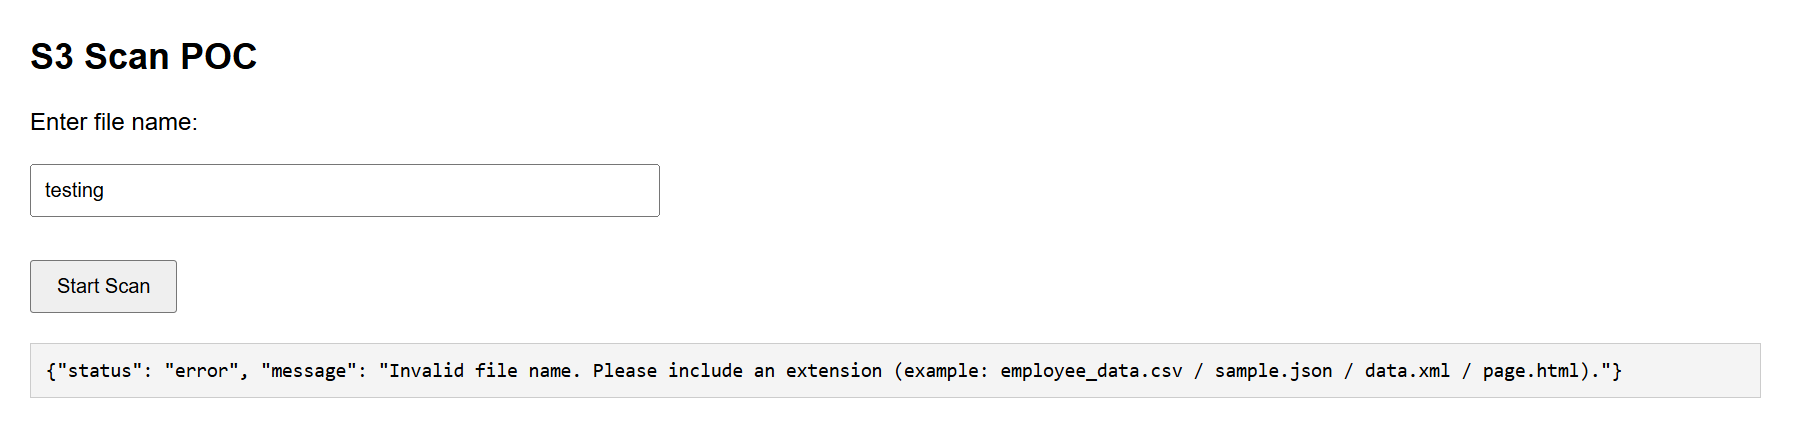
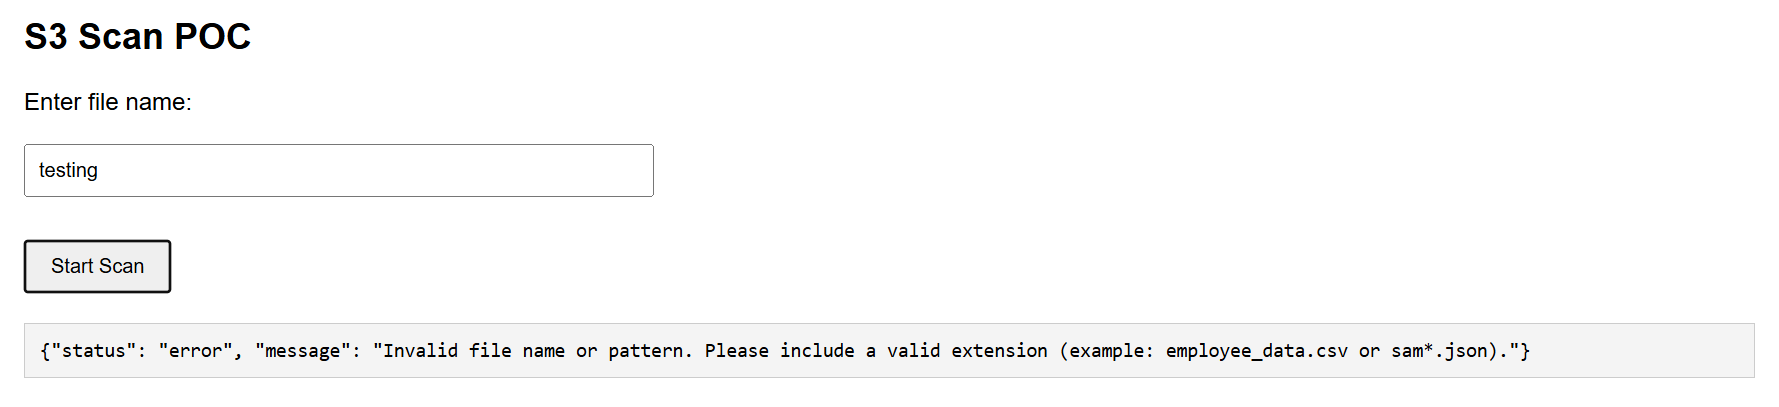
adding new scenarios and updating the future scope

diff --git a/docs/decisions-and-future.md b/docs/decisions-and-future.md
@@ -4,140 +4,9 @@ This document captures the key technical and architectural decisions made while 
 
 The intention is to explain **why specific choices were made** and how the solution can evolve into a production‑ready implementation.
 
----
 
-## Key Design Decisions
+### Authentication & Authorization
 
-### 1. Serverless Architecture
-**Decision:**  
-Use AWS managed serverless services (S3, API Gateway, Lambda).
-
-**Rationale:**
-- No infrastructure management or scaling concerns
-- Pay‑per‑use cost model
-- Fast iteration and deployment
-- Ideal for POCs and lightweight workloads
-
-This approach keeps operational overhead minimal and aligns with modern cloud-native patterns.
-
----
-
-### 2. Static Frontend Hosted on Amazon S3
-**Decision:**  
-Host the UI as a static website in Amazon S3.
-
-**Rationale:**
-- Simple and cost‑effective
-- No backend maintenance
-- Easy integration with API Gateway
-- Works well for lightweight interactive UIs
-
-The frontend is intentionally kept **dumb** — it performs no logic beyond sending user input to the backend.
-
----
-
-### 3. REST API Gateway (Not HTTP API)
-**Decision:**  
-Use **Amazon API Gateway REST API** instead of HTTP API.
-
-**Rationale:**
-- Explicit stage management (`/prod`)
-- Clear resource‑based routing (`/scan`)
-- Better visibility for learning and debugging
-- Familiar enterprise pattern
-
-Although HTTP APIs are cheaper and simpler, REST API was chosen to make routing, stages, and CORS behavior more explicit for demonstration and learning purposes.
-
----
-
-### 4. Backend‑Driven File Discovery
-**Decision:**  
-Accept **only file name input** from the UI and handle all discovery logic in Lambda.
-
-**Rationale:**
-- UI should not know storage layout
-- Prevents exposing internal bucket structure
-- Centralizes validation and search logic
-- Enables future backend enhancements without UI changes
-
-This improves security, maintainability, and extensibility.
-
----
-
-### 5. Prefix‑Based S3 Organization
-**Decision:**  
-Organize files in S3 using logical prefixes based on file type (`csv/`, `json/`, `xml/`, `html/`).
-
-**Rationale:**
-- Simple and scalable search strategy
-- Reduces unnecessary lookups
-- Easy to extend with new file types
-- Clear separation of data categories
-
----
-
-### 6. Input Validation in Lambda
-**Decision:**  
-Perform strict validation on `file_name` inside Lambda.
-
-**Validations include:**
-- Missing file name
-- Missing extension
-- Unsupported extension
-- File not found
-
-**Rationale:**
-- Improves user experience
-- Prevents unnecessary S3 calls
-- Makes error handling predictable
-- Keeps the UI simple
-
----
-
-### 7. Dual Invocation Support (API + Direct Test)
-**Decision:**  
-Support both:
-- API Gateway invocations
-- Direct Lambda “Test Event” execution
-
-**Rationale:**
-- Simplifies development and debugging
-- Enables local validation without frontend
-- Improves maintainability for future testing frameworks
-
----
-
-## Security Considerations
-
-### Current State (POC)
-- Public S3 access enabled to serve static UI
-- Lambda uses minimal IAM permissions
-- No credentials exposed to frontend
-
-### Known Limitation
-Public S3 access was enabled manually due to enterprise‑level S3 Block Public Access guardrails preventing Terraform‑based public policies.
-
-This approach is acceptable **only for POC/demo purposes**.
-
----
-
-## Future Enhancements
-
-### 1. Replace Public S3 with CloudFront + OAC
-**Description:**
-- S3 remains private
-- CloudFront serves UI
-- Origin Access Control (OAC) enforces secure access
-
-**Benefits:**
-- Aligns with AWS security best practices
-- Removes public S3 policies
-- Improves performance and caching
-- Terraform‑friendly in enterprise accounts
-
----
-
-### 2. Authentication & Authorization
 **Options:**
 - Amazon Cognito
 - IAM authentication
@@ -150,59 +19,71 @@ This approach is acceptable **only for POC/demo purposes**.
 
 ---
 
-### 3. Enhanced Search Capability
-Potential enhancements:
-- Partial or fuzzy filename matching
-- Case‑insensitive search
-- Return multiple matches instead of single file
-- Search across configurable buckets
+### Advanced Search (Partial Match, Fuzzy Search)
+The current implementation supports exact and wildcard-based search patterns. In future iterations, this can be enhanced to support partial and fuzzy matching, allowing users to search even when the file name is not fully known or contains minor variations.
+This capability would enable:
+
+Case-insensitive and substring matching (e.g., *employee*)
+Flexible search experiences similar to search engines
+Improved usability for large datasets with inconsistent naming conventions
+
+This enhancement will significantly reduce dependency on strict naming patterns and improve overall user experience.
 
 ---
 
-### 4. Metadata & File Insights
-Lambda can be extended to:
-- Return file size
-- Display last modified timestamp
-- Validate file schema (CSV/JSON)
-- Perform content scanning or rule checks
+### Metadata-Based Filtering (Date, Owner, Type)
+Currently, the search is based solely on file names and extensions. This can be extended by incorporating metadata-driven filtering, enabling users to search files based on additional attributes such as:
+
+Upload date or date range
+File type (CSV, JSON, XML, etc.)
+Owner or source system
+File size or category
+
+By leveraging metadata, the system can provide more contextual and refined search results, making it suitable for enterprise data lake environments where structured search is critical.
+
+--- 
+
+### UI Enhancements with Search Suggestions
+The current UI accepts direct user input for file search. This can be improved by introducing interactive search assistance features, such as:
+
+Auto-suggestions based on previously searched patterns
+Dropdown recommendations for file names and extensions
+Real-time validation feedback while typing
+Smart hints for wildcard usage
+
+These enhancements will make the interface more intuitive, reduce invalid inputs, and improve the overall usability of the solution.
 
 ---
 
-### 5. UI Enhancements
-Possible frontend improvements:
-- Dropdown of recently discovered files
-- Auto‑suggest based on prefix
-- Better formatted response display
-- Loading indicators and tooltips
+### File Preview and Download Links
+At present, the system returns file paths as search results. This can be extended to provide direct file access capabilities, such as:
+
+Previewing file contents (for supported formats like JSON, CSV, HTML)
+Secure download links using pre-signed URLs
+Direct integration with browsers or internal tools
+
+This feature will transform the solution from a file discovery tool into a file access platform, enabling end-to-end interaction with S3 data.
 
 ---
 
-### 6. Scalability & Observability
-- Add CloudWatch structured logging
-- Track search latency metrics
-- Integrate AWS X‑Ray
-- Add alarms for error rate
+### Performance Optimization for Large Datasets
+The current implementation uses S3 object listing and filtering, which is suitable for small to medium-scale datasets. For larger datasets (millions of files), performance can be enhanced by adopting optimized strategies such as:
 
----
+Maintaining an indexed metadata layer
+Reducing scan scope through intelligent partitioning
+Caching frequently accessed results
+Parallelizing search operations
 
-## Migration to Production (High‑Level Steps)
-1. Replace public S3 with CloudFront + OAC or Leverage AWS Lex capabilities for UI
-2. Enable authentication
-3. Add structured monitoring
-4. Restrict IAM policies further
-5. Implement CI/CD promotion controls
-6. Add automated testing
+These improvements will ensure consistent response times and scalability as the system grows.
 
----
+--- 
 
-## Conclusion
+### Integration with Analytics Pipelines
+The solution can be extended to integrate with downstream data and analytics workflows, enabling:
 
-This POC intentionally prioritizes **clarity, learning, and speed** over full production hardening.
+Triggering ETL or processing pipelines after file discovery
+Feeding search results into analytics tools (Athena, Glue, BI dashboards)
+Automating data validation and transformation workflows
+Supporting data-driven decision-making processes
 
-The current design demonstrates:
-- Clean separation of concerns
-- Strong serverless fundamentals
-- Secure backend‑driven logic
-- Clear upgrade path to enterprise‑grade architecture
-
-With minimal additional effort, the solution can confidently evolve into a production‑ready system.
+This evolution will position the solution as a foundational component within a larger data ecosystem, rather than just a standalone search utility.

diff --git a/docs/readme.md b/docs/readme.md
@@ -53,6 +53,30 @@ User enters a file name without a valid extension or with an unsupported format.
 ![invalid-scenario](images/invalid_file_name.png)
 ---
 
+### ✅ Wildcard Search – Multiple Matches Found
+
+User searches using wildcard pattern to find multiple files.
+
+![wildcard-success](images/wildcard-success.png)
+
+---
+
+### ❌ Wildcard Search – No Matches Found
+
+User enters a wildcard pattern that does not match any files.
+
+![wildcard-negative](images/wildcard-negative.png)
+
+---
+
+### ⚠ Invalid Wildcard Pattern
+
+User enters a wildcard pattern without valid extension or incorrect format.
+
+![wildcard-invalid](images/wildcard-invalid.png)
+
+---
+
 ## Deployment
 All infrastructure is deployed using **Terraform**.
 
@@ -76,10 +100,13 @@ Detailed documentation is available in the `docs/` folder:
 ---
 
 ## Future Enhancements
-- Replace public S3 access with CloudFront + OAC
-- Support partial file-name search
-- Display list of matched files
-- Add authentication via Amazon Cognito
+• Add authentication via Amazon Cognito
+• Advanced search (partial match, fuzzy search)  
+• Metadata-based filtering (date, owner, type)  
+• UI enhancements with search suggestions  
+• File preview and download links  
+• Performance optimization for large datasets  
+• Integration with analytics pipelines 
 
 Want to understand more about Future plans?? 
    👉 [Future Plans](decisions-and-future.md)
